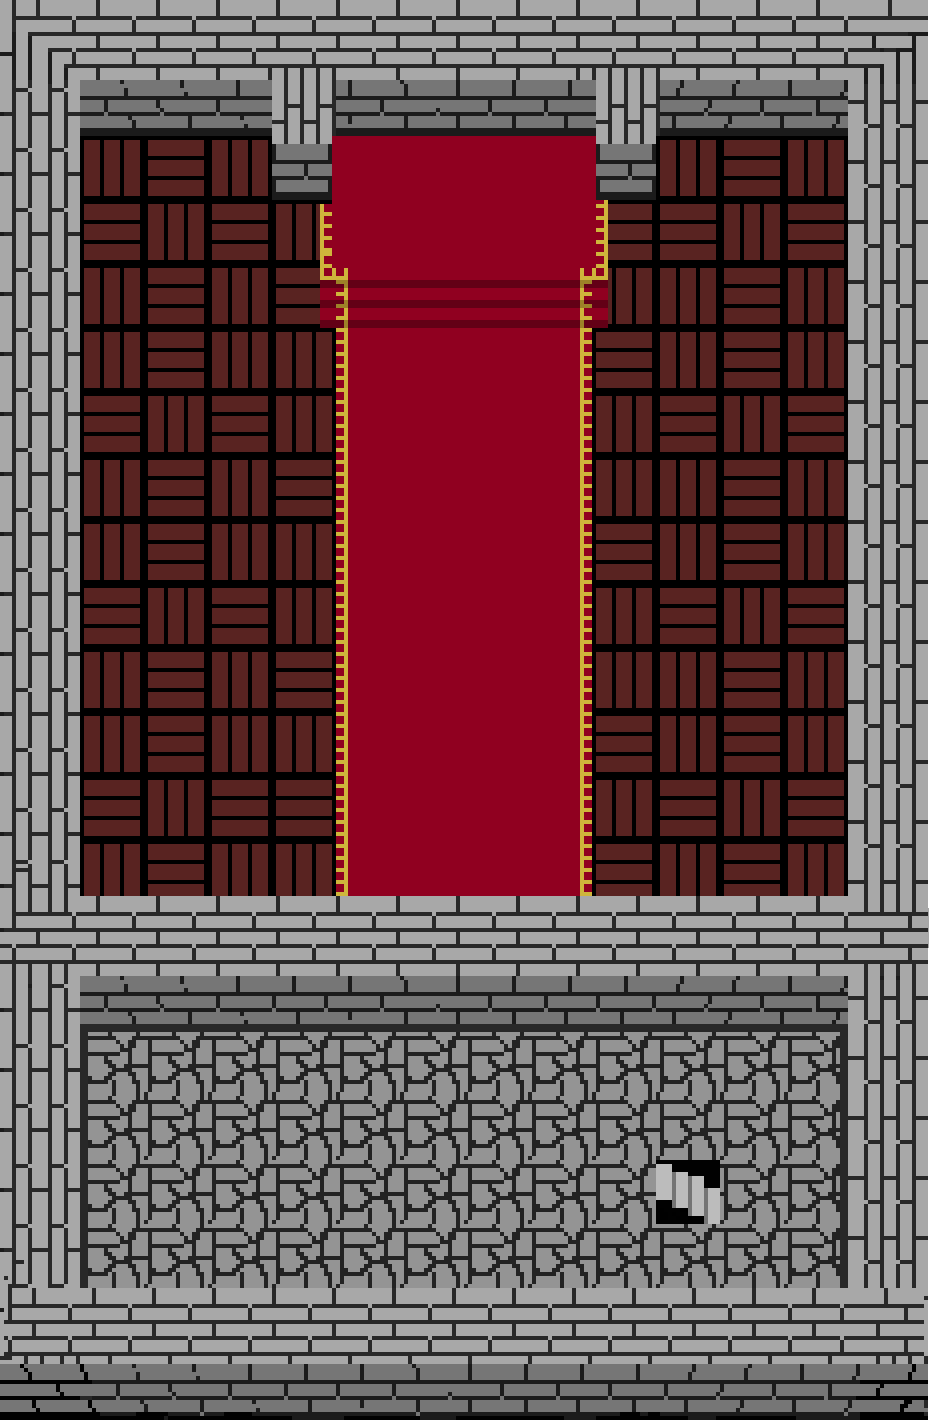
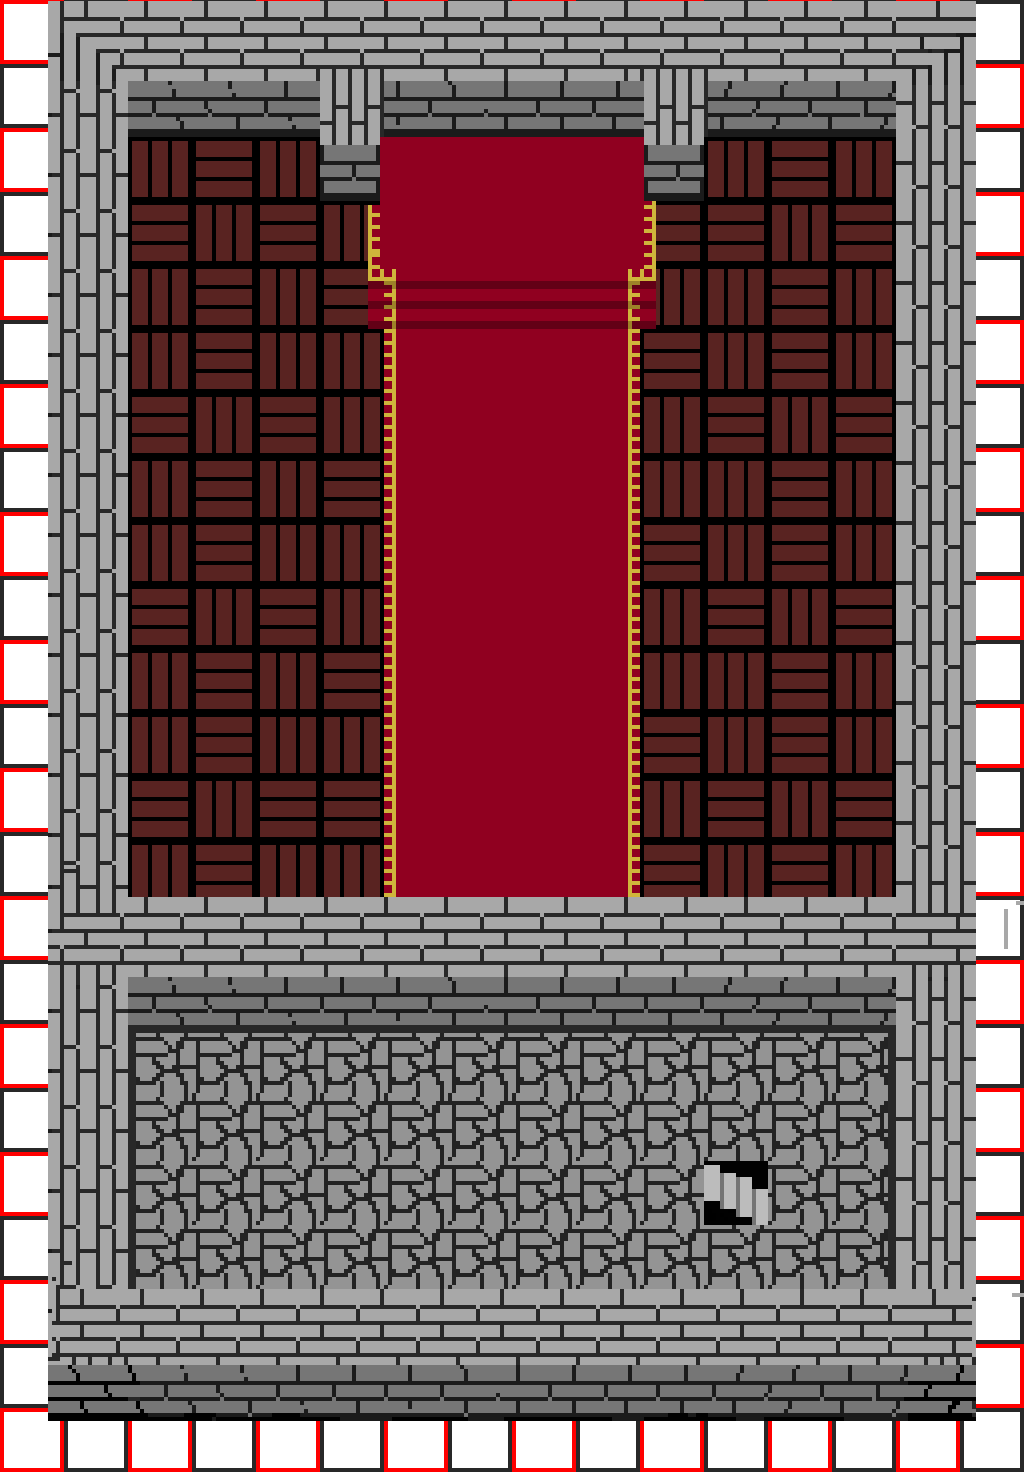
* fix

diff --git a/MadHype/Game.h b/MadHype/Game.h
@@ -133,10 +133,10 @@
 		this->backgroundWorker1->RunWorkerAsync();
 
 		
-		maps->Add(gcnew Map(0, 0, gcnew Bitmap(".\\images\\Locations\\newLocation.png", true), ".\\maps\\mapZal2.txt", 8, 8));
-		maps->Add(gcnew Map(0, 0, gcnew Bitmap(".\\images\\Locations\\Location.png", true), ".\\maps\\mapZal.txt", 8, 13));
-	
-
+		
+		
+		maps->Add(gcnew Map(0, 0, gcnew Bitmap(".\\images\\Locations\\newLocation.png", true), gcnew Bitmap(".\\images\\Locations\\LocationFront.png", true), ".\\maps\\mapZal2.txt", 7, 7));
+		maps->Add(gcnew Map(0, 0, gcnew Bitmap(".\\images\\Locations\\Location.png", true), gcnew Bitmap(".\\images\\Locations\\LocationFront.png", true), ".\\maps\\mapZal.txt", 11, 18));
 
 
 
@@ -166,11 +166,11 @@
 
 					if (maps[numMap]->getMap()[i][j] == 'd')
 					{
-						e->Graphics->DrawImageUnscaled(closeDoor, i * 64 + maps[numMap]->getX(), j * 64 - 28 + maps[numMap]->getY());
+						e->Graphics->DrawImageUnscaled(closeDoor, i * 64 - 28 + maps[numMap]->getX(), j * 64 + maps[numMap]->getY());
 					}
 					else if (maps[numMap]->getMap()[i][j] == 'D')
 					{
-						e->Graphics->DrawImageUnscaled(openDoor, i * 64 + maps[numMap]->getX(), j * 64 - 28 + maps[numMap]->getY());
+						e->Graphics->DrawImageUnscaled(openDoor, i * 64 - 28 + maps[numMap]->getX(), j * 64 + maps[numMap]->getY());
 					}
 				}
 			}
@@ -211,6 +211,7 @@
 			}
 			else
 				timeChangeSpriteOfPlayer++;
+			e->Graphics->DrawImageUnscaled(maps[numMap]->getFront(), maps[numMap]->getX(), maps[numMap]->getY());
 		}
 
 #pragma endregion
@@ -246,7 +247,7 @@
 
 					maps[numMap]->getMap()[player->getX()][player->getY()] = 's';
 
-				//	maps[numMap]->move(direct, );
+				
 
 					player->rotation(direct);
 
@@ -260,7 +261,7 @@
 					numMap--;
 
 					direct = 1;
-
+						
 					player->setX(maps[numMap]->getStartxPlayer());
 
 					player->setY(maps[numMap]->getStartyPlayer());

diff --git a/MadHype/Map.h b/MadHype/Map.h
@@ -15,11 +15,12 @@ ref class Map
 
 
 public:
-	Map(int x, int y, Bitmap^ zal, const char *mapbin, int startxplayer, int startyplayer)
+	Map(int x, int y, Bitmap^ zal,Bitmap^ front, const char *mapbin, int startxplayer, int startyplayer)
 	{
 		X = x;
 		Y = y;
 		Zal = zal;
+		Front = front;
 		mapBin = readFileMap(mapbin);
 		startxPlayer = startxplayer;
 		startyPlayer = startyplayer;
@@ -33,6 +34,7 @@ private:
 		startxPlayer,
 		startyPlayer;
 	Bitmap^ Zal;
+	Bitmap^ Front;
 
 	
 	char** mapBin;
@@ -104,6 +106,18 @@ public:
 	void setLocation(Bitmap^ x)
 	{
 		Zal = x;
+
+
+	}
+
+	Bitmap^ getFront()
+	{
+		return Front;
+	}
+
+	void setFront(Bitmap^ x)
+	{
+		Front = x;
 
 
 	}
